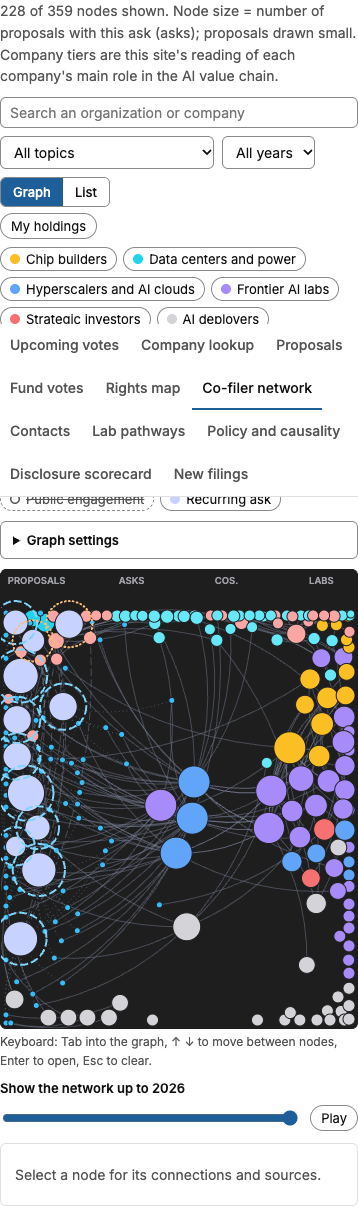
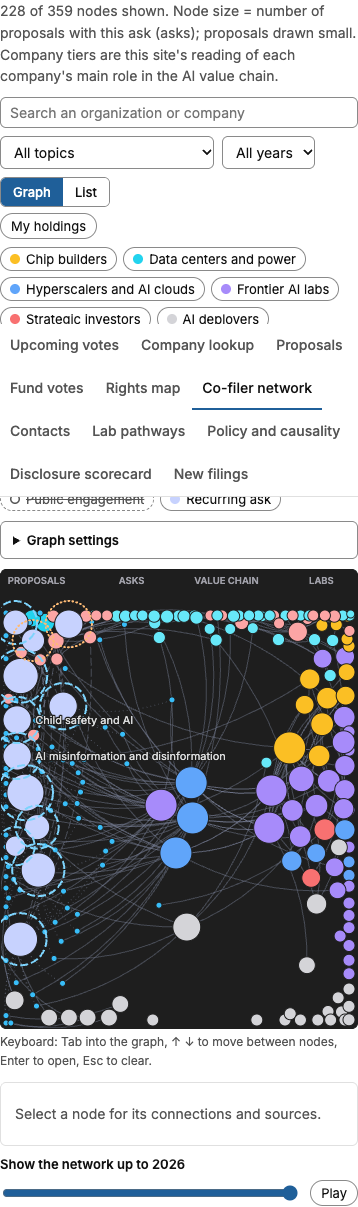
Phase 4 review R2 fixes; Lab pathways value-chain column; STATE.md
- Drop the abstentions mark; wider computed-figure detection; ctx.upto reset; scrubber under the graph
- Lab pathways: "Value chain (companies tied to labs)", tier-sorted with tier tags (owner: not "public company")
- Label overlap test waits for the layout to settle; reviews R2 saved; value-chain UI plan drafted

diff --git a/pathways.js b/pathways.js
@@ -1,4 +1,6 @@
-// Influence pathways: investors -> public companies -> frontier AI labs.
+// Influence pathways: investors -> companies in the AI value chain -> frontier AI labs.
+// Companies are labelled by their value-chain tier, not "public": some are private, and labs may list
+// (owner, 2026-11-26: "maybe you can have different qualifiers other than public company").
 // Investors cannot file proposals at private labs, but they can engage the public
 // companies that fund, host, supply or distribute those labs. This view lays that out.
 // Reads data/pathways.json (company-to-lab ties) and data/network.json (who engages which company).
@@ -53,13 +55,13 @@
 
   function shell(el, data) {
     const labs = data.labs.map((l) => `<button type="button" class="chip" data-lab="${esc(l.id)}" aria-pressed="false">${esc(l.name)}</button>`).join("");
-    const cos = data.public_companies.map((c) => `<label class="chip"><input type="checkbox" value="${esc(c.id)}"> ${esc(c.name)}</label>`).join("");
+    const cos = byTier(data.public_companies).map((c) => `<label class="chip"><input type="checkbox" value="${esc(c.id)}"> ${esc(c.name)}${tierOf(c)[1] ? `<span class="ticker"> · ${esc(tierOf(c)[1])}</span>` : ""}</label>`).join("");
     // Two line kinds, both blue: company → lab ties (navy) and filer → company links (light blue).
     // Tie type is named in the tie table and the side panel.
     const legend = `<span class="leg static"><span class="dot" style="background:${cssVar("--t-equity")}"></span>company → lab tie (width = strength)</span>`;
     el.innerHTML = `
       <h2>Lab pathways</h2>
-      <p class="intro">${data.ties.length} ties between ${data.public_companies.length} public companies and ${data.labs.length} frontier labs, with the filers active at each company. Line width = tie strength (1–3) or proposals filed.</p>
+      <p class="intro">${data.ties.length} ties between ${data.public_companies.length} companies in the AI value chain and ${data.labs.length} frontier labs, with the filers active at each company. Line width = tie strength (1–3) or proposals filed.</p>
       <div class="pw-modes">
         <div><p class="pw-label">Labs</p><div class="chips">${labs}</div></div>
         <div><p class="pw-label">Companies</p><div class="chips">${cos}</div></div>
@@ -74,6 +76,11 @@
       <div class="table-wrap" id="pw-ties"></div>`;
   }
 
+  // Value-chain tier per company (companies.json tier, by ticker), in value-chain order.
+  const TIER = { chips: [1, "Chip builder"], datacenters: [2, "Data centers and power"], compute: [3, "Hyperscaler or AI cloud"], labs: [4, "Frontier AI lab"], capital: [5, "Strategic investor"], deployers: [6, "AI deployer"] };
+  const tierOf = (c) => TIER[(window.companyTiers || new Map()).get(c.ticker)] || [9, ""];
+  const byTier = (list) => [...list].sort((a, b) => tierOf(a)[0] - tierOf(b)[0] || a.name.localeCompare(b.name));
+
   function layout() {
     const el = document.getElementById("pw-graph");
     const W = el.clientWidth || 800;
@@ -82,7 +89,7 @@
       .sort((a, b) => S.inv.filter((p) => p.org.id === b.id).length - S.inv.filter((p) => p.org.id === a.id).length);
     const cols = [
       { key: "inv", title: "Investors and advocates", items: investors.map((o) => ({ id: "o:" + o.id, label: o.name, ref: o })) },
-      { key: "co", title: "Public companies", items: S.data.public_companies.map((c) => ({ id: "c:" + c.id, label: c.name.replace(/\s*\(.*\)/, ""), ref: c })) },
+      { key: "co", title: narrow ? "Value chain" : "Value chain (companies tied to labs)", items: byTier(S.data.public_companies).map((c) => ({ id: "c:" + c.id, label: c.name.replace(/\s*\(.*\)/, ""), ref: c })) },
       { key: "lab", title: "Frontier labs", items: S.data.labs.map((l) => ({ id: "l:" + l.id, label: l.name.replace(/\s*\(.*\)/, ""), ref: l })) },
     ];
     const rowH = narrow ? 20 : 24;
@@ -160,7 +167,7 @@
     document.getElementById("pw-panel").innerHTML = `
       <p class="eyebrow tight">Frontier lab</p><h3>${esc(lab.name)}</h3>
       <p>${esc(lab.description || "")} ${link(lab.source_url)}</p>
-      <h4 class="pw-h4">Public companies with leverage (${ties.length})</h4><ul class="conn">${tieRows || "<li>None sourced yet.</li>"}</ul>
+      <h4 class="pw-h4">Companies tied to this lab (${ties.length})</h4><ul class="conn">${tieRows || "<li>None sourced yet.</li>"}</ul>
       <h4 class="pw-h4">Investors already engaging those companies on AI</h4>
       <ul class="conn">${invByCo || "<li>None in the map yet.</li>"}</ul>`;
     tieTable(ties);

diff --git a/graph.js b/graph.js
@@ -332,13 +332,6 @@
       <p class="count-line" id="net-hold-status" aria-live="polite"></p>
       <div id="net-legend" class="net-legend"></div>
       <details id="net-settings" class="graph-settings"></details>
-      <div class="scrub" id="net-scrub">
-        <label for="net-upto">Show the network up to <span id="net-upto-val"></span></label>
-        <input type="range" id="net-upto" step="1">
-        <button type="button" class="chip" id="net-play">Play</button>
-        <p class="status-note" id="net-scrub-note"></p>
-        <p class="visually-hidden" id="net-scrub-status" aria-live="polite"></p>
-      </div>
       <div class="net-body">
         <div class="net-graph-wrap">
           <div id="net-graph" class="net-graph" tabindex="0" role="application" aria-roledescription="network graph" aria-describedby="net-kb-hint" aria-label="Co-filer network graph. Up and Down arrows move between nodes, Enter opens one, Escape clears. The List view has the same data as a table."></div>
@@ -347,6 +340,13 @@
         </div>
         <div id="net-list" class="net-list" hidden></div>
         <aside id="net-panel" class="net-panel" aria-label="Selected node"><p class="status-note">Select a node for its connections and sources.</p></aside>
+      </div>
+      <div class="scrub" id="net-scrub">
+        <label for="net-upto">Show the network up to <span id="net-upto-val"></span></label>
+        <input type="range" id="net-upto" step="1">
+        <button type="button" class="chip" id="net-play">Play</button>
+        <p class="status-note" id="net-scrub-note"></p>
+        <p class="visually-hidden" id="net-scrub-status" aria-live="polite"></p>
       </div>
       </div>`;
   }
@@ -1212,6 +1212,7 @@
     if (state.gaps && !lens().gaps) setGaps(false);
     stopPlay();
     state.upto = null;
+    state.ctx.upto = null;
     setAsks(!!lens().asks);
     const d = lens().defaults || {};
     state.hiddenKinds = new Set(d.hiddenKinds || []);
@@ -1281,6 +1282,7 @@
     playTimer = null;
     const b = document.getElementById("net-play");
     if (b) b.textContent = "Play";
+    if (state.selected && state.byId.get(state.selected)) showPanel(state.byId.get(state.selected));
     if (announce) document.getElementById("net-scrub-status").textContent = `Stopped at ${state.upto || yearRange()[1]}.`;
   }
   function saveUpto() {
@@ -1324,7 +1326,8 @@
     }
     refresh();
     if (state.ringSel) placeFocusMark();
-    if (state.selected && state.byId.get(state.selected)) showPanel(state.byId.get(state.selected));
+    // The panel is refreshed when the user moves the slider or Play stops, not on every Play step (focus safety).
+    if (!playTimer && state.selected && state.byId.get(state.selected)) showPanel(state.byId.get(state.selected));
     if (announce) {
       const n = state.data.nodes.filter((x) => x.kind === "proposal" && visible(x)).length;
       document.getElementById("net-scrub-status").textContent = `Up to ${y}: ${n} ${n === 1 ? "proposal" : "proposals"} shown.${cleared ? " The selected node is after that year, so the panel was cleared." : ""}`;
@@ -1366,7 +1369,7 @@
       if (hit && state.view === "graph") { state.selected = hit.id; showPanel(hit); }
     });
     document.getElementById("net-topic").addEventListener("change", (e) => { state.topic = e.target.value; refresh(); });
-    document.getElementById("net-year").addEventListener("change", (e) => { state.year = e.target.value; stopPlay(); state.upto = null; scrubSync(); refresh(); });
+    document.getElementById("net-year").addEventListener("change", (e) => { state.year = e.target.value; stopPlay(); state.upto = null; state.ctx.upto = null; state.ctx.cache = {}; scrubSync(); refresh(); });
     document.getElementById("net-legend").addEventListener("click", (e) => {
       const b = e.target.closest(".leg");
       if (!b) return;

diff --git a/lenses.js b/lenses.js
@@ -351,8 +351,13 @@
   // Dual-class figures: notes that mention dual/multi-class voting or class B shares ("single class" isn't).
   const isDualClass = (p) => /dual|multi-class|class b/i.test(p.support_note || "") && !/single class/i.test(p.support_note || "");
   // Figures this site computed from 8-K vote counts (the 8-K states no percentage).
-  const isComputed = (p) => /not stated|raw counts|8-k counts|computed/i.test(p.support_note || "");
-  const isAbstainBasis = (p) => /abstain|abstention/i.test(p.support_note || "");
+  // Also when the company states a percentage that differs from the figure recorded here (e.g. 2.4% vs 2.45).
+  const isComputed = (p) => {
+    const note = p.support_note || "";
+    if (/not stated|raw counts|counts only|no company percentage|gives no percentage|no percentage|8-k counts|item 5\.07|computed/i.test(note)) return true;
+    const m = note.match(/reports ([\d.]+)%/i);
+    return !!m && Math.abs(Number(m[1]) - Number(p.support_pct)) > 0.01;
+  };
   function askActions(n, ctx) {
     const out = [];
     const props = askProposals(n, ctx);
@@ -374,15 +379,14 @@
       const ps = linked.filter((p) => Number(p.year) === y).sort((a, b) => a.support_pct - b.support_pct);
       out.push({
         text: v.length === 1 ? `${y}: 1 vote, ${v[0]}%` : `${y}: ${v.length} votes, ${v[0]}%–${v.at(-1)}%, average ${avg}%`,
-        links: ps.map((p) => ({ href: p.results_url, label: `${p.company} ${p.support_pct}%${isDualClass(p) ? " (dual-class)" : isAbstainBasis(p) ? " (abstentions counted)" : ""}` })),
+        links: ps.map((p) => ({ href: p.results_url, label: `${p.company} ${p.support_pct}%${isDualClass(p) ? " (dual-class)" : ""}` })),
       });
     }
     if (linked.length) {
       const dual = linked.filter(isDualClass).length;
-      const abst = linked.filter((p) => !isDualClass(p) && isAbstainBasis(p)).length;
       const left = voted.length - linked.length;
       const comp = linked.filter(isComputed).length;
-      out.push({ text: `Averages are computed by this site from the figures as recorded${comp ? `; ${comp} of ${linked.length} figures were computed from 8-K vote counts (the 8-K states no percentage)` : "; each figure is the percentage the company states"}. Notes are in Proposals.${dual ? ` ${dual} of these figures ${dual === 1 ? "is" : "are"} dual-class (counted by votes cast).` : ""}${abst ? ` ${abst} ${abst === 1 ? "counts" : "count"} abstentions with votes against, as the company's bylaw does.` : ""}${left ? ` ${plural(left, "vote", "votes")} without a linked results filing ${left === 1 ? "is" : "are"} left out.` : ""}` });
+      out.push({ text: `Averages are computed by this site from the figures as recorded${comp ? `; ${comp} of ${linked.length} ${linked.length === 1 ? "figure" : "figures"} ${comp === 1 ? "was" : "were"} computed from 8-K vote counts` : ""}. Notes are in Proposals.${dual ? ` ${dual} of these figures ${dual === 1 ? "is" : "are"} dual-class (counted by votes cast).` : ""}${left ? ` ${plural(left, "vote", "votes")} without a linked results filing ${left === 1 ? "is" : "are"} left out.` : ""}` });
     }
     // Coverage, one line per entry.
     const c = askCoverage(n, ctx);

diff --git a/tests/lens.spec.js b/tests/lens.spec.js
@@ -109,7 +109,7 @@ test("graph labels never overlap, including after selecting a busy node", async 
     });
   for (const id of ["co-MSFT", "afl-cio", "trillium"]) {
     await page.evaluate((x) => window.focusNetworkNode(x), id);
-    await page.waitForTimeout(900);
-    expect(await overlaps(), `overlapping labels after selecting ${id}`).toBe(0);
+    // Labels may cross for a moment while the layout moves; once it settles, none overlap.
+    await expect.poll(overlaps, { message: `overlapping labels after selecting ${id}`, timeout: 6000 }).toBe(0);
   }
 });

diff --git a/docs/plans/2026-11-26-value-chain-ui.md b/docs/plans/2026-11-26-value-chain-ui.md
@@ -1,0 +1,55 @@
+# Plan: Value chain tab (value-chain map and engagement map)
+
+Date: 2026-11-26. UI session. Data: `data/value_chain.json` on `main` (data session plan docs/plans/2026-11-25-value-chain.md, reviewed 83 PASS). Standing instruction: "Don't ask me any questions about publishing or next steps. Just continue until you complete the project."
+
+## The owner's words
+
+> "One visual is a map of engagement, and another visual is a map of the value chain. Figure out whichever visual, as a data scientist, works best to display that data. I want it to be clear how you can engage at different points in the value chain. For example, it's clear that engaging at this level, hyperscaler level, means this is the effect you can have, these are the different players you can reach, and these are the stakeholders you need to engage with to have engagement in the space." (2026-11-25)
+
+Earlier direction applies: every visual is functional and data-driven; plain labels; practitioners; all visuals blue on the white page (the dark canvas is the co-filer network's exception).
+
+## Where
+
+A new tab, **Value chain** (`#value-chain`), placed after Lab pathways. A new tab adds a URL and breaks none, so the tab list grows from 11 to 12.
+
+## Visual 1: value-chain map (layered flow, left to right)
+
+A value chain has direction and order, so the chart is a layered flow rather than a force graph.
+- **Columns:** chips → data centers and power → hyperscalers and AI clouds → frontier labs → AI deployers, in the `order` from `tiers`. Strategic investors are a band under frontier labs, because capital feeds labs.
+- **Nodes:** each company in its primary tier (`companies.json` `tier`), as blue circles sized by the number of sourced ties.
+- **Links:** the 44 `ties`, as curves from supplier to customer. The tie type is shown by dash, not colour: supplies chips solid; manufactures for long dash; leases capacity or provides compute dashed; supplies power dotted; distributes models dash-dot. A key names each pattern, and the width is constant.
+- **Interaction:** clicking a tier header or a company opens a panel under the chart.
+- **Text equivalent:** a table of all ties (from, type, to, as of, source) under the chart, sortable by type.
+
+## Panel for a tier: "Engaging at this tier"
+
+Every item comes from `per_tier` and is shown with its link; nothing new is claimed.
+- **What it is:** the tier's `what_it_is`, plus a company count (primary and all).
+- **Who this tier reaches:**
+  - labs reached directly;
+  - labs reached in two steps, each with its route ("{from} → {tie} → {via} → {then} → {lab}") and the source.
+- **Asks already made here:** `asks_made`, as company, year and title, linked; plus `ai_proposals`, `proposal_topics` and `median_support_pct`, labelled as the data session's median.
+- **Who is already engaging:** `active_filers` (with proposal counts), `coalitions` (members active here) and `people` (name and organisation).
+- **How shareholders can act:** the `shareholder_routes` mix (e.g. "5 under US proxy rules, 2 US-listed foreign issuers, 1 private"), with no advice.
+- **Scope:** `derived_note`, quoted once.
+
+A company panel shows its tier(s), its ties in and out (each with the source), and an "Open in Company lookup" button.
+
+## Visual 2: engagement map (tier × engagement type, a heatmap table)
+
+- **Rows:** the 6 tiers. **Columns:** AI proposals, asks made, investor engagements, safety commitments, fund-vote rows, active filers, coalitions, people.
+- **Cells:** each holds its count, shaded light to dark blue by count within its column (with the number always printed), so the gaps read at a glance.
+- **Clicks:** each cell is a button that opens the tier panel at that section. A zero cell is plain text, not a button (no dead controls).
+- **Caption:** states the scope ("counts cover … per `derived_note`").
+
+## Wording guard
+
+Plain labels with no "target" or "influence" (PRODUCT.md Never claim 1–2). "Who this tier reaches" is stated as sourced ties. The tier classification is "this site's reading" (`about`).
+
+## Files
+
+`valuechain.js` (new), `index.html` (tab and script), `app.js` (render call, alias), `styles.css` (tokens only), `tests/` (the every-tab test covers the new tab automatically; plus a test that a tier click opens the panel and that zero cells aren't buttons), `DESIGN.md`, `docs/STATE.md`.
+
+## Checks
+
+`npm run check`; plan and result reviews (UX/content, accessibility, data accuracy).

diff --git a/docs/reviews/2026-11-26 lens phase4 result R2 data accuracy.md b/docs/reviews/2026-11-26 lens phase4 result R2 data accuracy.md
@@ -1,0 +1,39 @@
+REVIEWER: Data accuracy SCORE: 82 VERDICT: REVISE
+
+I recomputed all 12 asks at 8b85826 with no cap, then again with upto=2024. These are confirmed:
+- Recurrence counts, by status and with floor handling.
+- Year ranges and averages, shown to one decimal: 28.4, 24.5, 11.6, 8.8, 10.5 and 12.0.
+- Left-out counts: child safety 3, climate 1, oversight 1.
+- The dual-class count: AXON is now excluded, and customer due diligence reads 3.
+- Coverage lines, with the policy_status as stored and the none entries showing "source pending".
+- The lane filter. The Amazon vote event is gone, and all 12 asks now read "No Causality map events…". That is accurate given the match terms, so ev-msft-community-first goes to the data session's queue.
+- The capped counts. Asks with no proposals at 2024 are hidden (dc-water, climate, bias, workforce).
+
+TOP FAILURES
+1. **Every "abstentions counted" mark is false.** `isAbstainBasis` tests for /abstain|abstention/, but most notes just list the abstain count. In every flagged case `support_pct` is For/(For+Against):
+   - DLR: 69.76/(69.76+240.75) = 22.47
+   - NFLX: 43.29; IBM: 2.45; SO: 9.74; AXON: 13.67
+   - NVDA: the note's abstain-basis figure is 17.44, but `support_pct` is 17.57.
+
+   So "count abstentions with votes against, as the company's bylaw does" is printed for dc-water (2), climate (2), bias, customer due diligence and oversight, and is true for none of them. Drop the mark, or require "counted as against" and check it against the figure used.
+2. **The computed count is too low.** `isComputed` misses notes that say the 8-K has no percentage in other words:
+   - dlr-2025-5 and dlr-2026-4: "counts only" / "no company percentage"
+   - nflx-2024-4: counts with no percentage
+   - nvda-2026-product-ghg: "gives no percentage"
+
+   dc-water prints "1 of 3" (true: 3 of 3), climate "6 of 8" (true: 7 of 8), and oversight "6 of 7" (true: 7 of 7). Add /counts only|no (company )?percentage|gives no percentage|item 5\.07/ to the test. The Microsoft figures can count as stated, since they match within 0.01. IBM states 2.4% but the site shows 2.45, so treat that one as computed.
+3. **`ctx.upto` is never reset.** Only `scrubTo` and the URL load set `state.ctx.upto`. `setLens` (graph.js:1214) and the year select (graph.js:1369) reset only `state.upto`. After scrubbing to 2024 and then switching lens or picking a year, the ask panel still shows capped counts and "(up to 2024…)" while the graph shows every year. Set `state.ctx.upto = null` in both places.
+
+TOP IMPROVEMENTS
+1. Fix the grammar in "1 of 3 figures were": use "1 of 3 figures was".
+2. Add a test that compares the computed and dual-class counts per ask against a data-derived expectation, so regex drift fails the check.
+3. The "partial without graph_id" branch has no data case, so add a fixture test.
+
+OUT-OF-FIELD NOTES
+- ev-msft-community-first is missed by the match terms ("datacenter", "electricity"). That is for the data session's queue.
+- ev-parnassus-intuit-engagement's date, 2023-01-01, is still a likely placeholder.
+- An ask hidden by the cap could still be the selected node. Check that the panel clears.
+
+CONTENT RULES: FAIL
+- **Never claim 5:** a false vote-basis claim ("abstentions… as the company's bylaw does") and computed counts below the true ones.
+- **Never claim 4, 8 and 9:** pass. Company actions are now lane-limited, coverage is worded "in this map" with status as stored, and the review note is shown.

diff --git a/docs/reviews/2026-11-26 lens phase4 result R2 accessibility.md b/docs/reviews/2026-11-26 lens phase4 result R2 accessibility.md
@@ -1,0 +1,35 @@
+REVIEWER: Accessibility SCORE: 88 VERDICT: PASS
+
+All three round 1 failures are fixed at 8b85826. I read graph.js, lenses.js, app.js, styles.css, DESIGN.md and tests/lens4.spec.js from that commit; I didn't run the site or the tests.
+
+- **Play button:** it is a plain button that renames itself between Play and Pause, with no `aria-pressed` (graph.js:338; stopPlay and wireScrubber). The test checks that the attribute is absent.
+- **Scrubber in List view:** `#net-scrub` now sits above `.net-body`, outside the hidden `.net-graph-wrap`. The List count line states the cap: "Proposals and events up to {Y} only (year slider above)" (graph.js:1194). The ask recurrence line adds "(up to Y, as the year slider shows)" (lenses.js askActions), so the panel text matches the graph.
+- **Ask panel order:** for asks, the eyebrow, `<h3>` and ring mark come first, then the facts, then the "This ask" `<h4>` (graph.js:587).
+- **Cap clearing:** clearing the selection is announced in the live line: "The selected node is after that year, so the panel was cleared." (graph.js:1330).
+- **Clamping:** `upto=` is clamped to the data's years (graph.js:1429).
+- **Contrast** (my measurements on #1e1e1e): `--gn-ask` 11.18:1, now stated correctly in the plan. `--g-ring` 10.0:1 and `--g-risk` 9.89:1 are unchanged.
+- **Lab pathways on white:** labels are `--ink`, column headers `--ink-soft` (7.46:1), node fills 3:1 or more.
+- **Proposals chart:** all marks are now filled; the lightest, `--tp-gov` #4f8fcf, is about 3.5:1 on white. The topic still shows by shape as well as shade.
+
+TOP FAILURES (none blocking)
+1. **DESIGN.md is out of date for the scrubber.** DESIGN.md:131 still says it "sits under the graph" and uses `aria-pressed`. Both are now wrong, so the design doc no longer matches the build (AGENTS rule 10).
+2. **Play can move keyboard focus.** graph.js:1327 redraws the panel (`showPanel`) on every scrub step, including each Play tick every 1.5 s. If a keyboard or screen-reader user has tabbed into the panel (a source link, say) while Play runs, that element is replaced and focus drops to the page (2.4.3). Play runs only about 4.5 s today, so the risk is small.
+
+TOP IMPROVEMENTS
+1. Skip the redraw when the panel's content hasn't changed. Otherwise, put focus back on the same control after the redraw.
+2. Non-ask panels still put the actions `<h4>` before the node's `<h3>` (graph.js:587). This predates Phase 4; queue it rather than fix it here.
+3. Add tests for three things:
+   - in this lens, ask nodes come first in keyboard order;
+   - the `#net-kb` announcement includes the coverage mark;
+   - the List count line shows the cap text when `upto` is set.
+
+OUT-OF-FIELD NOTES
+- Ask labels are now always shown (graph.js, `d.kind === "ask"`), outside the no-overlap priority list. Check label collisions in the visual review.
+- The Proposals chart key no longer has a "basis note" mark. The count of figures with a basis note is now given in text, which is fine, but data accuracy should confirm the count.
+- DESIGN.md's Proposals row was updated; the row for the scrubber was not (see failure 1).
+
+CONTENT RULES: PASS.
+- The coverage marks keep "this site's reading, not yet confirmed by a person".
+- An ask with no entries still reads "not yet assessed", never "no rule".
+- The averages are labelled as computed by this site.
+- Rule 9 (WCAG 2.1 AA) passes on the evidence reviewed. Failure 2 is an edge case, not a blocker.

diff --git a/docs/reviews/2026-11-26 lens phase4 result R2 ux content.md b/docs/reviews/2026-11-26 lens phase4 result R2 ux content.md
@@ -1,0 +1,32 @@
+REVIEWER: UX / content (Round 2, commit 8b85826) SCORE: 78 VERDICT: REVISE
+
+TOP FAILURES
+1. **The new "abstentions counted" label is wrong for 6 of the 7 figures it marks.** `isAbstainBasis` (lenses.js) matches any `support_note` that contains "abstain". Most notes only list the Abstain count as raw data. axon-2023-6 (13.67), so-2026-9 (9.74, "the same basis"), dlr-2025-5 (10.37), dlr-2026-4 (22.47), nflx-2024-4 (43.29) and ibm-2026-7 (2.45) all equal For/(For+Against). Only nvda-2026-product-ghg counts abstentions. On top of that, the basis sentence adds "as the company's bylaw does", which no note or source states. Both break Never claim 4 and 5. Fix: match "abstentions counted as against" or "For+Against+Abstain" only, and drop the bylaw clause.
+2. **The "computed from 8-K vote counts" count is too low, and its fallback wording can be false.** `isComputed` misses "counts only" (DLR ×2), "8-K Item 5.07: For…" (NFLX), "gives no percentage" (NVDA) and IBM: IBM's 8-K states 2.4%, but the site stores 2.45, so that figure was computed too. For example, ask-dc-water reports 1 computed figure, but all 3 are. When the count is 0, the line reads "each figure is the percentage the company states". That happens to be true today, for the Microsoft oil-and-gas ask only. Fix: derive this from a data field, or match "no company percentage", "gives no percentage" and "counts only".
+3. **The scrubber is no longer under the graph.** The owner's spec says "Add a year scrubber under the graph". `#net-scrub` now sits above `.net-body`, between Graph settings and the graph. If that was on purpose (for example, to keep it visible), record why in DESIGN.md or the plan. Otherwise, put it back under the graph.
+
+TOP IMPROVEMENTS
+1. Retake the docs/design/lens-phase4 screenshots. They are pre-fix, so the new panel order, the always-on ask labels and the scrubber position haven't been checked visually at 390 px.
+2. Add test assertions that read the data:
+   - the abstention label appears only on nvda-2026-product-ghg;
+   - the panel's recurrence line includes "(up to Y" after a scrub.
+3. The other fixes landed well:
+   - the ask's name and mark now come first;
+   - "No requirement found. {note}";
+   - the lane filter;
+   - the panel follows the slider, and the ask node hides when none of its proposals fall in range;
+   - the List view states the cap.
+
+   Optionally, append "(dual-class)" in the year text as well as in the link labels, for screen-reader skimming.
+
+OUT-OF-FIELD NOTES
+- Play's `aria-pressed` was removed (the name changes instead), which goes against plan Revision 2. An accessibility reviewer should confirm that.
+- STATE.md should record that all 12 asks have no company actions in the Causality map, so the owner's "commitments" item is unmet by the data.
+- `ev_kind` now overrides nothing, but `kind` on ev- nodes is still remapped. Check that the List view's Type column still reads correctly.
+
+CONTENT RULES: FAIL
+- **Never claim 4 and 5:** the abstentions mislabel and the unsourced "bylaw" clause put a false basis on 6 published figures.
+- **Never claim 6** (the R1 company-actions issue): fixed. All 12 asks now correctly read "No Causality map events…".
+- **Average exception:** labelling is otherwise correct, and the dual-class detection now excludes AXON's "Single class" note.
+- **Rule 8 and Rule 9 scope:** still pass.
+- **Plain labels:** "Value chain, by tier" is a plain label. Pass.

diff --git a/docs/STATE.md b/docs/STATE.md
@@ -103,6 +103,19 @@ The owner's spec has four phases, and each phase gets its own plan and reviews i
 - **Process slip (2026-11-26):** a command chain pushed Phase 2 to `main` while one test (a timing flake) was failing. Fixed 3 minutes later in 1bfef97, with the check passing. Pushes are now conditional on the check's exit code.
 - **Tests:** Playwright is capped at 3 workers, because the local python server dropped connections under full parallel load.
 
+- **Phase 4 (Policymaker; plan docs/plans/2026-11-26-lens-phase4.md):**
+  - **Asks:** the 12 recurring asks (asks.json) are nodes with their proposals.
+  - **Coverage marks** (coverage.json): partially covered, no rule in this map, or not yet assessed, each "this site's reading, not yet confirmed by a person".
+  - **Ask panel:** recurrence by status, then support by year with labelled averages (an exception to the no-average rule, by the owner's spec), then coverage lines.
+  - **Year scrubber** in all lenses (`upto=`).
+  - **Reviews:** UX R1 72, R2 78; accessibility R1 78, R2 88 PASS; data R1 80, R2 82. R2's fixes are in but not re-reviewed (round cap): the abstentions mark was dropped, computed-figure detection widened, the year-slider cap reset, and the scrubber moved under the graph.
+  - **Owner's "company commitments":** shown as "company actions in the Causality map that mention this ask" (companies and labs lanes only). No ask has one today: the data has no commitment field, and the asks' match terms miss e.g. ev-msft-community-first ("datacenter", "electricity"). That's for the data session.
+- **Owner asks during Phase 4 (2026-11-26):**
+  - every Proposals-chart mark is filled;
+  - Lab pathways is back on white;
+  - the network column is "Value chain, by tier";
+  - Lab pathways' middle column is "Value chain (companies tied to labs)", sorted by tier with tier tags, not "public companies" (some are private, and labs may list).
+
 ## Next (UI session)
 
 1. **Phase 3 follow-up:** show `pass_through_voting` from `data/pass_through_voting.json` (`offered` null means no program found on the pages checked, never "no").

diff --git a/DESIGN.md b/DESIGN.md
@@ -128,7 +128,7 @@ A new lens is one more entry. `rules.js` holds rule-based settings with comments
     - support by year: range and average. The average is an exception to the site's no-average rule, by the owner's spec; it is labelled as computed by this site, with dual-class and unlinked figures stated;
     - coverage lines;
     - company actions in the Causality map that mention the ask (by the ask's match terms). Nothing is called a "commitment", because the data has no such field.
-- **Year scrubber (all lenses):** "Show the network up to {year}" sits under the graph, with Play/Pause (`aria-pressed`) stepping one year every 1.5 s.
+- **Year scrubber (all lenses):** "Show the network up to {year}" sits under the graph and its panel, outside the graph box, so List view shows it too (owner's spec: "under the graph"), with one button that renames itself between Play and Pause, stepping one year every 1.5 s. The open panel refreshes when Play stops, not on every step, so focus inside it is never lost.
   - **What it caps:** proposals by year, and `ev-` events by date. Companies, filers and labs stay.
   - **Single year:** with one year chosen in the year select, the slider is disabled, with the reason given.
   - **URL:** `upto=` in the URL; a lens switch resets it.

diff --git a/docs/plans/2026-11-26-lens-phase4.md b/docs/plans/2026-11-26-lens-phase4.md
@@ -125,3 +125,13 @@ These override the sections above. The source is graph.json throughout (proposal
 **Wording:**
 - `sizeLabel` is "number of proposals with this ask (asks); proposals drawn small".
 - The lens label stays "Policymaker". There's no slogan heading; the owner's question isn't printed as copy.
+
+## Build notes (after result reviews R1 and R2; round cap reached)
+
+- R1: company actions are limited to the companies and labs lanes, with the causality kind. Counts follow the year slider. Ask panels lead with the name. Ask labels are always on. Figures per year are linked. Play renames itself, with no aria-pressed. The scrubber is visible in List view.
+- R2 (not re-reviewed):
+  - the "abstentions counted" mark is removed (every figure is For ÷ (For + Against));
+  - computed-from-8-K detection is widened, including a stated percentage that differs from the recorded one;
+  - `ctx.upto` resets on lens and year change;
+  - the scrubber sits under the graph, per the owner's spec, outside the graph box so List view keeps it;
+  - the panel refreshes when Play stops, not on every step.
